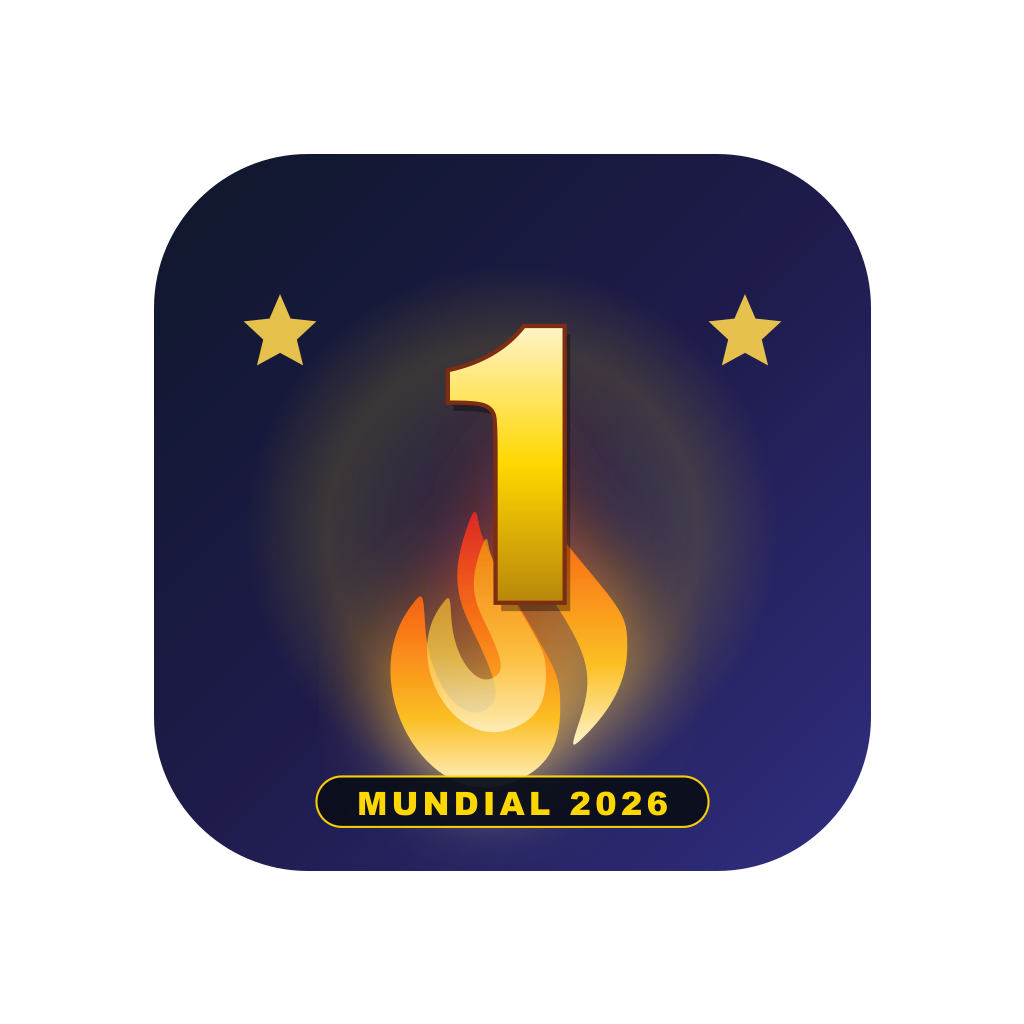
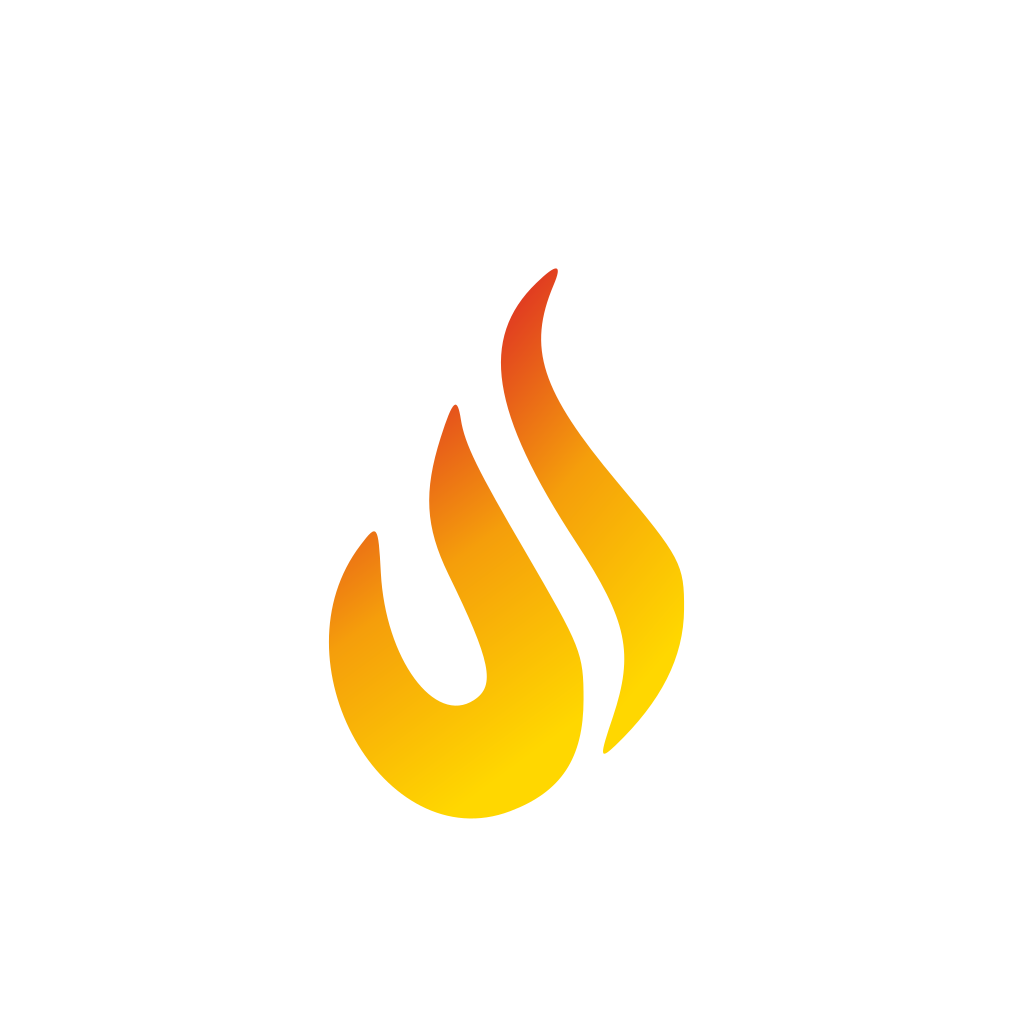
fix(apk): crash post-login (ProGuard off) + icono adaptive de fuego correcto
CRASH POST-LOGIN ("la aplicacion se detuvo"):
Causa #1 de "compila bien pero crashea solo en release APK": ProGuard/R8
minification + resource shrinking strippean clases usadas por reflexion
(libs nativas no cubiertas por las keep rules). En dev no pasa porque no
hay minificacion.
Fix: enableProguardInReleaseBuilds=false + enableShrinkResources=false.
APK un poco mas grande pero funciona en cualquier dispositivo. La
seguridad del APK viene de SSL pinning + FLAG_SECURE + root detection,
no de la ofuscacion de ProGuard.

ICONO DE FUEGO NO SE APLICABA:
android-icon-foreground.png tenia el fondo navy + banner "MUNDIAL 2026"
incrustados y llenaba TODO el lienzo. Para un adaptive icon de Android,
el foreground debe ser SOLO el logo, fondo TRANSPARENTE y con zona segura
(~58%) — Android aplica el backgroundColor aparte y enmascara. Por eso se
veia cortado/mal.
Fix:
- Nuevo adaptive-foreground-source.svg: solo la llama Fuego Mundial,
  transparente, centrada en zona segura.
- Regenerados android-icon-foreground.png + monochrome desde ese SVG.
- build-icons.js actualizado para usarlo (no regresa el bug).

diff --git a/scripts/build-icons.js b/scripts/build-icons.js
@@ -24,6 +24,10 @@ const path = require('path');
   const imgDir = path.join(root, 'assets', 'images');
   const iconSvg    = fs.readFileSync(path.join(imgDir, 'icon-source.svg'));
   const faviconSvg = fs.readFileSync(path.join(imgDir, 'favicon-source.svg'));
+  // Foreground del adaptive icon — SOLO la llama, fondo transparente, con
+  // zona segura. NO usar icon-source.svg aquí: ese tiene fondo + banner y
+  // rompe el adaptive icon (se ve cortado/mal al enmascararse).
+  const adaptiveFgSvg = fs.readFileSync(path.join(imgDir, 'adaptive-foreground-source.svg'));
 
   // The foreground for Android adaptive icons must have ~25% safe padding
   // — Android will mask it inside a circle/square. We render the same SVG
@@ -58,8 +62,11 @@ const path = require('path');
     // ── Main app icon (used for iOS + fallback Android) ───────────
     { name: 'icon.png',                       size: 1024, source: iconSvg, bg: { r: 10, g: 14, b: 26, alpha: 1 } },
     // ── Android adaptive ─────────────────────────────────────────
-    { name: 'android-icon-foreground.png',    size: 1024, source: iconSvg, foreground: true },
-    { name: 'android-icon-monochrome.png',    size: 1024, source: iconSvg, foreground: true },
+    // Usan el SVG de SOLO la llama (transparente + zona segura). Se renderizan
+    // como "splash" (transparente, sin shrink extra) porque el SVG ya trae el
+    // margen seguro incorporado.
+    { name: 'android-icon-foreground.png',    size: 1024, source: adaptiveFgSvg, splash: true },
+    { name: 'android-icon-monochrome.png',    size: 1024, source: adaptiveFgSvg, splash: true },
     // (background is configured by hex in app.json — no PNG needed)
     // ── Splash screen ────────────────────────────────────────────
     { name: 'splash-icon.png',                size: 1024, source: iconSvg, bg: { r: 0, g: 0, b: 0, alpha: 0 }, splash: true },